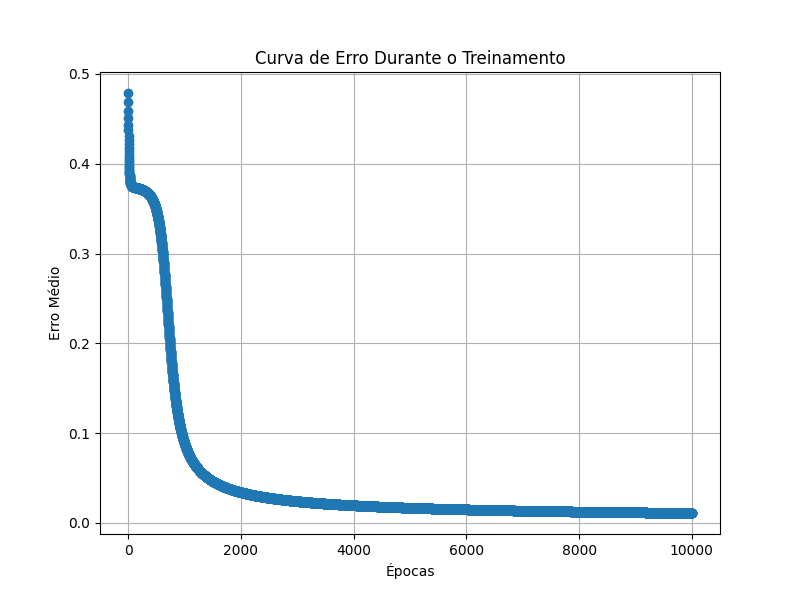
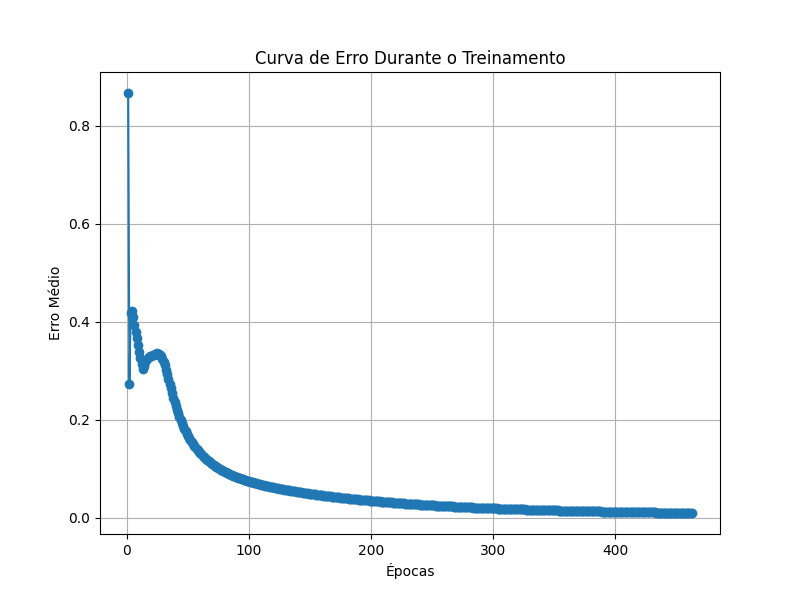
batch mode implemented

diff --git a/Back_Propagation/back_propagation.py b/Back_Propagation/back_propagation.py
@@ -3,10 +3,19 @@ from Neural_Network.neural_network_gen import neuralNetworkGen
 from Utils.plot_Error_Curve import plotErrorCurve
 from Utils.activation_functions import getDerivative
 from Utils.error_functions import calculateError, calculateOutputLayerError
-import math
 
 
-def backPropagation(initialLayerWidth, depth, inputs, expectedOutputs, maxEpochs=50, errorThreshold=0.01, fileName="grafico", activation="tanh"):
+def backPropagation(
+    initialLayerWidth,
+    depth,
+    inputs,
+    expectedOutputs,
+    maxEpochs=50,
+    errorThreshold=0.01,
+    fileName="grafico",
+    activation="tanh",
+    update_mode="online"  # "online" ou "batch"
+):
     layers = neuralNetworkGen(initialLayerWidth, depth, inputs)
     epoch = 0
     errorMedio = float('inf')
@@ -16,21 +25,24 @@ def backPropagation(initialLayerWidth, depth, inputs, expectedOutputs, maxEpochs
         outputs = []
         totalError = 0
 
+        batch_weight_updates = [
+            [ [0] * len(neuron.weights) for neuron in layer ] 
+            for layer in layers
+        ]
+
         for input, expectedOutput in zip(inputs, expectedOutputs):
             outputsPerLayer = passForward(layers, input, activation)
             derivates = []
 
-            output = outputsPerLayer[-1][0]  # Saída da última camada
+            output = outputsPerLayer[-1][0]
             outputs.append(output)
 
             totalError += abs(expectedOutput - output)
 
-            # Cálculo das derivadas
             for layer in outputsPerLayer:
                 derivatesPerLayer = [getDerivative(out, activation) for out in layer]
                 derivates.append(derivatesPerLayer)
 
-            # Cálculo dos erros da camada de saída
             outputLayerErrors = calculateOutputLayerError(
                 expectedOutput,
                 derivates[-1],
@@ -42,7 +54,6 @@ def backPropagation(initialLayerWidth, depth, inputs, expectedOutputs, maxEpochs
 
             errorsPerLayer = [outputLayerErrors]
 
-            # Cálculo dos erros para camadas ocultas
             for i in range(len(layers) - 1):
                 layerErrors = calculateError(
                     layers[-i - 2],
@@ -57,15 +68,28 @@ def backPropagation(initialLayerWidth, depth, inputs, expectedOutputs, maxEpochs
 
             errorsPerLayer.reverse()
 
-            # Ajuste dos pesos
             for index, (layer, errors) in enumerate(zip(layers, errorsPerLayer)):
                 if index == 0:
                     layerInputs = input
                 else:
                     layerInputs = outputsPerLayer[index - 1]
 
-                for neuron, error in zip(layer, errors):
-                    neuron.weightReadjustment(layerInputs, error=error)
+                for neuronIndex, (neuron, error) in enumerate(zip(layer, errors)):
+                    if update_mode == "online":
+                        neuron.weightReadjustment(layerInputs, error=error)
+                    elif update_mode == "batch":
+                        for wIndex in range(len(neuron.weights)):
+                            delta = error * layerInputs[wIndex]
+                            batch_weight_updates[index][neuronIndex][wIndex] += delta
+                    else:
+                        raise ValueError("update_mode deve ser 'online' ou 'batch'")
+
+        if update_mode == "batch":
+            for layerIndex, layer in enumerate(layers):
+                for neuronIndex, neuron in enumerate(layer):
+                    for wIndex in range(len(neuron.weights)):
+                        avg_delta = batch_weight_updates[layerIndex][neuronIndex][wIndex] / len(inputs)
+                        neuron.weights[wIndex] += avg_delta
 
         errorMedio = totalError / len(inputs)
         errorHistory.append(errorMedio)
@@ -77,6 +101,7 @@ def backPropagation(initialLayerWidth, depth, inputs, expectedOutputs, maxEpochs
     print(outputs)
 
     plotErrorCurve(errorHistory, fileName)
+
 
 def passForward(layers, input, activation="tanh"):
     data = input

diff --git a/main.py b/main.py
@@ -13,8 +13,8 @@ inputs = np.array([
 
 weights = [0.5, 0.2, 0.3]
 
-expectedOutputs = [0, 0, 0, 1]
+expectedOutputs = [0, 1, 1, 0]
 
 #perceptron(inputs, expectedOutputs, 100, "XOR-2bits.gif")
 
-backPropagation(2, 3, inputs, expectedOutputs, 10000, 0.01, "Tanh-AND-2bits", "sigmoid")
+backPropagation(2, 3, inputs, expectedOutputs, 10000, 0.01, "Tanh-XOR-2bits", "tanh", "online")

diff --git a/Neuron/neuron.py b/Neuron/neuron.py
@@ -5,7 +5,7 @@ class Neuron:
     def __init__(self, nInputs, learningRate = 0.3):
         self.weights = np.random.uniform(-1, 1, nInputs)
         self.bias = 1
-        self.biasWeight = 0.1
+        self.biasWeight = np.random.uniform(-1, 1, 1)
         self.learningRate = learningRate
 
     def netInput(self, inputs):
